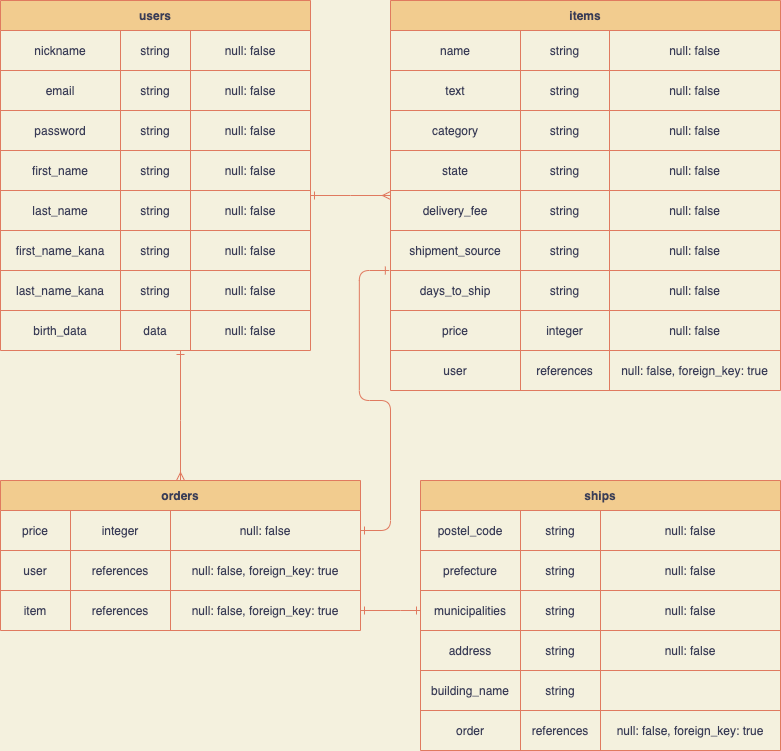
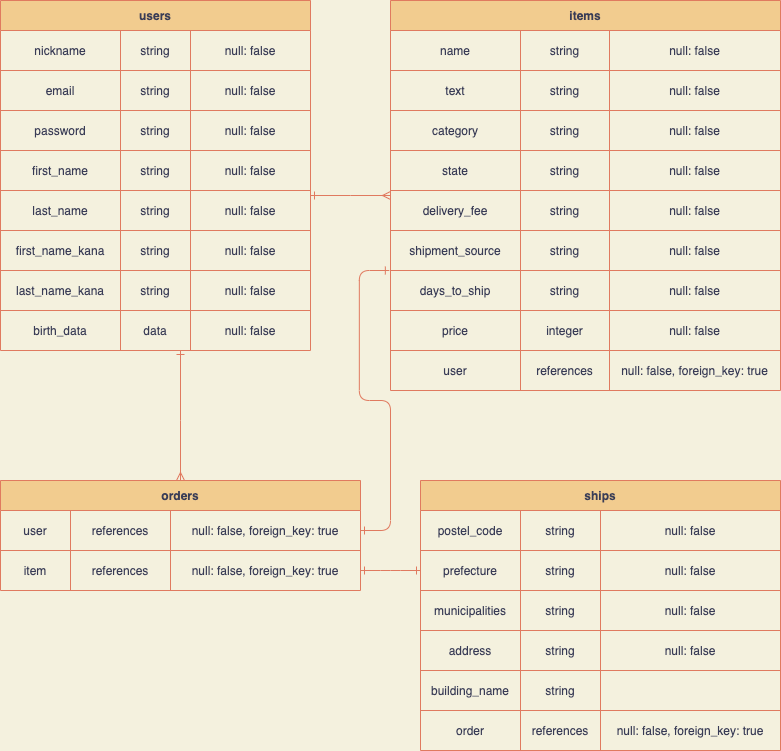
orndersテーブルからpriceを削除

diff --git a/README.md b/README.md
@@ -42,7 +42,6 @@
 
 | Column   | Type       | Options                           |
 | -------- | ---------- | --------------------------------- |
-| price    | integer    | null: false                       |
 | user     | references | null: false, foreign_key: true    |
 | item     | references | null: false, foreign_key: true    |
 
